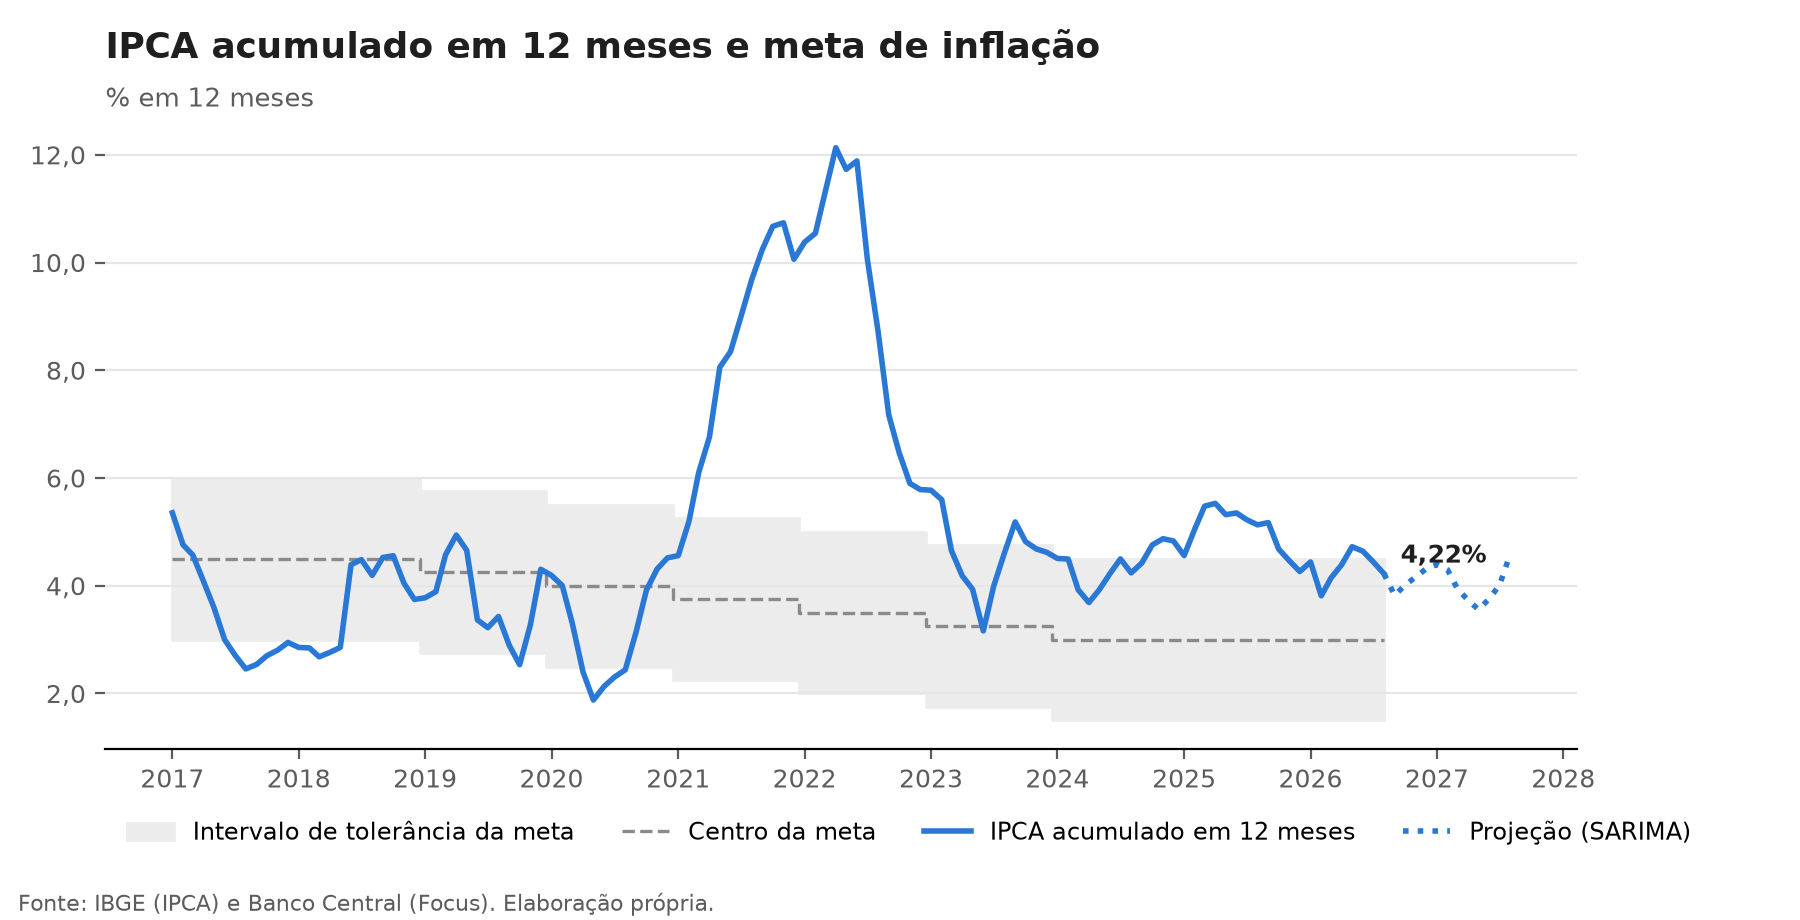
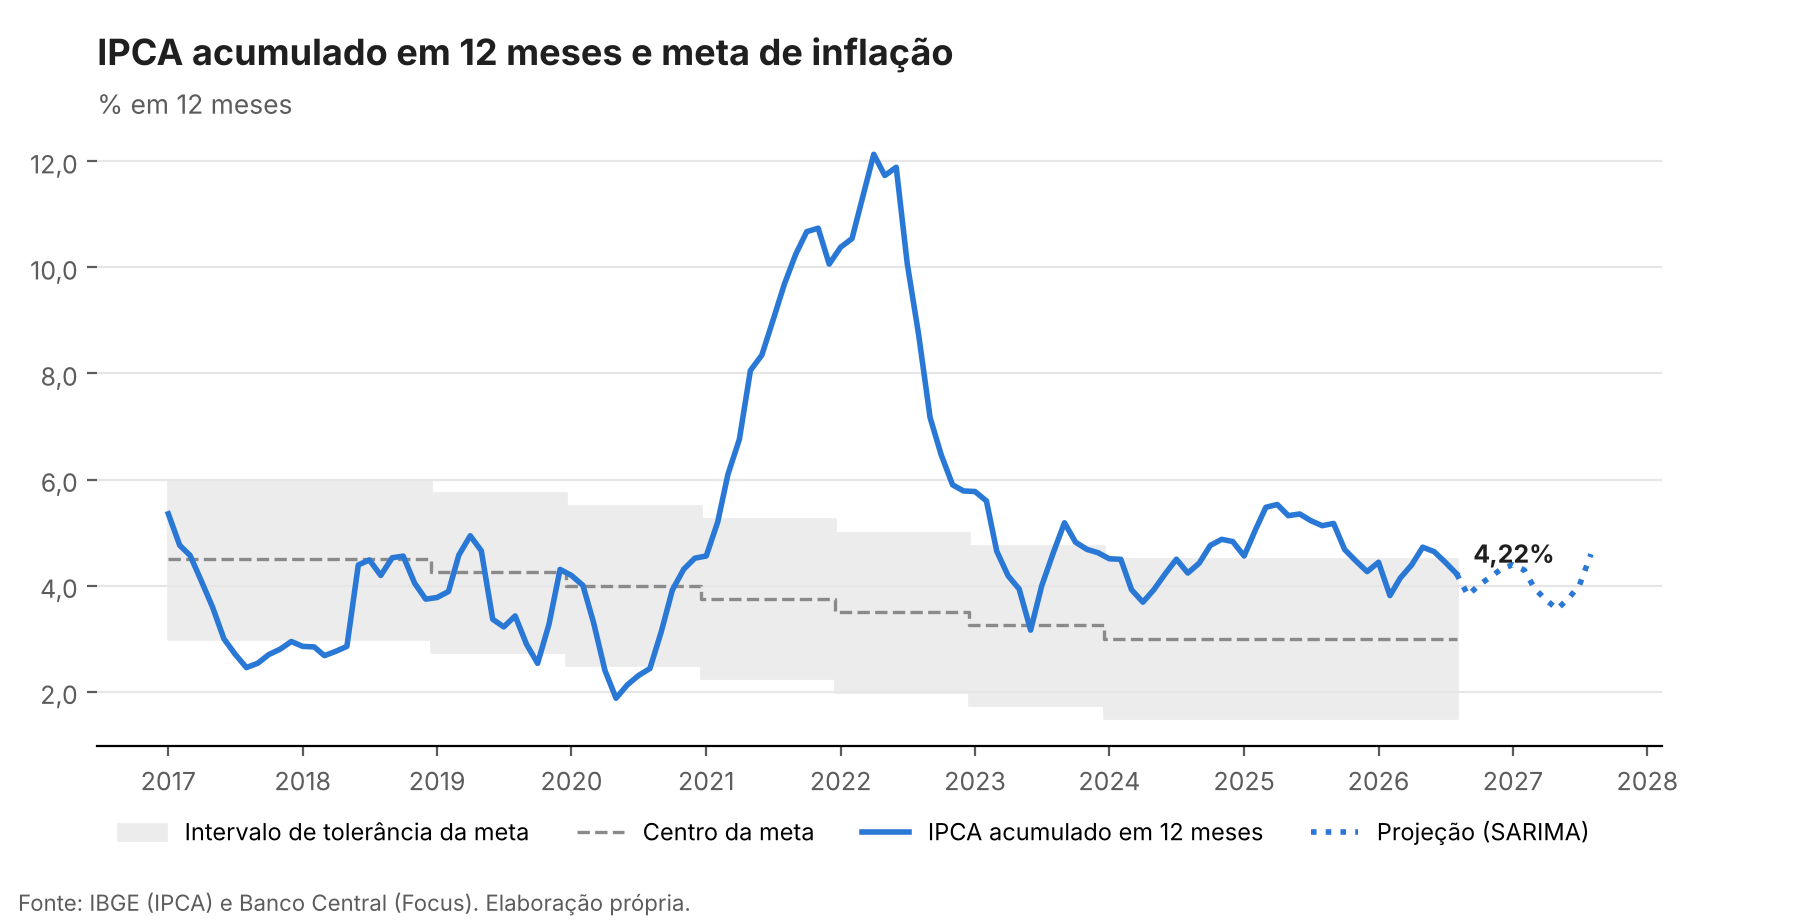
Nota: leitura do IPCA de agosto de 2026

diff --git a/nota/ultima_nota.md b/nota/ultima_nota.md
@@ -9,6 +9,18 @@
 - **Acumulado no ano: 3,11%.**
 - **Inflação projetada para os próximos 12 meses (SARIMA, até ago/27): 4,59%.**
 
+## Leitura
+
+*Leitura referente ao IPCA de agosto de 2026.*
+
+A deflação de 0,32% em agosto veio de preços administrados e de alimentos, e não de uma desaceleração mais ampla. Habitação foi o principal vetor, com contribuição de −0,29 p.p.: a energia elétrica caiu 7,63% com o Bônus de Itaipu creditado nas faturas do mês. Transportes contribuiu com −0,17 p.p., com a queda das passagens aéreas e dos combustíveis, e Alimentação e bebidas com −0,07 p.p., com a queda dos alimentos in natura. No sentido contrário, Despesas pessoais somou +0,13 p.p., quase tudo pelo reajuste do cigarro.
+
+O resultado ficou abaixo da mediana do Focus coletada no meio do mês, e o acumulado em 12 meses recuou para 4,22%, consolidando o retorno ao intervalo de tolerância da meta depois de ter ficado acima do teto de 4,5% em junho. A melhora, porém, depende em boa parte de um fator que não se repete: o bônus é um crédito pontual, e a tarifa de energia volta ao nível anterior nas faturas seguintes.
+
+Essa é a principal razão da distância entre as projeções para setembro: o SARIMA espera 0,09% e o Focus, 0,56%. O modelo é univariado e lê a deflação de agosto como informação sobre a tendência; o mercado incorpora a reversão do bônus. O caso ilustra o limite do modelo puramente estatístico em meses dominados por preços administrados e reforça o próximo passo do projeto: incluir variáveis de fora da série, como o IPCA-15 e o calendário de reajustes.
+
+*Fonte dos itens: IBGE, divulgação do IPCA de agosto de 2026.*
+
 ## Contribuições por grupo
 
 | Grupo | ago/26 (p.p.) | Soma dos últimos 12 meses (p.p.) |

diff --git a/nota/leitura.md b/nota/leitura.md
@@ -1,0 +1,9 @@
+*Leitura referente ao IPCA de agosto de 2026.*
+
+A deflação de 0,32% em agosto veio de preços administrados e de alimentos, e não de uma desaceleração mais ampla. Habitação foi o principal vetor, com contribuição de −0,29 p.p.: a energia elétrica caiu 7,63% com o Bônus de Itaipu creditado nas faturas do mês. Transportes contribuiu com −0,17 p.p., com a queda das passagens aéreas e dos combustíveis, e Alimentação e bebidas com −0,07 p.p., com a queda dos alimentos in natura. No sentido contrário, Despesas pessoais somou +0,13 p.p., quase tudo pelo reajuste do cigarro.
+
+O resultado ficou abaixo da mediana do Focus coletada no meio do mês, e o acumulado em 12 meses recuou para 4,22%, consolidando o retorno ao intervalo de tolerância da meta depois de ter ficado acima do teto de 4,5% em junho. A melhora, porém, depende em boa parte de um fator que não se repete: o bônus é um crédito pontual, e a tarifa de energia volta ao nível anterior nas faturas seguintes.
+
+Essa é a principal razão da distância entre as projeções para setembro: o SARIMA espera 0,09% e o Focus, 0,56%. O modelo é univariado e lê a deflação de agosto como informação sobre a tendência; o mercado incorpora a reversão do bônus. O caso ilustra o limite do modelo puramente estatístico em meses dominados por preços administrados e reforça o próximo passo do projeto: incluir variáveis de fora da série, como o IPCA-15 e o calendário de reajustes.
+
+*Fonte dos itens: IBGE, divulgação do IPCA de agosto de 2026.*
